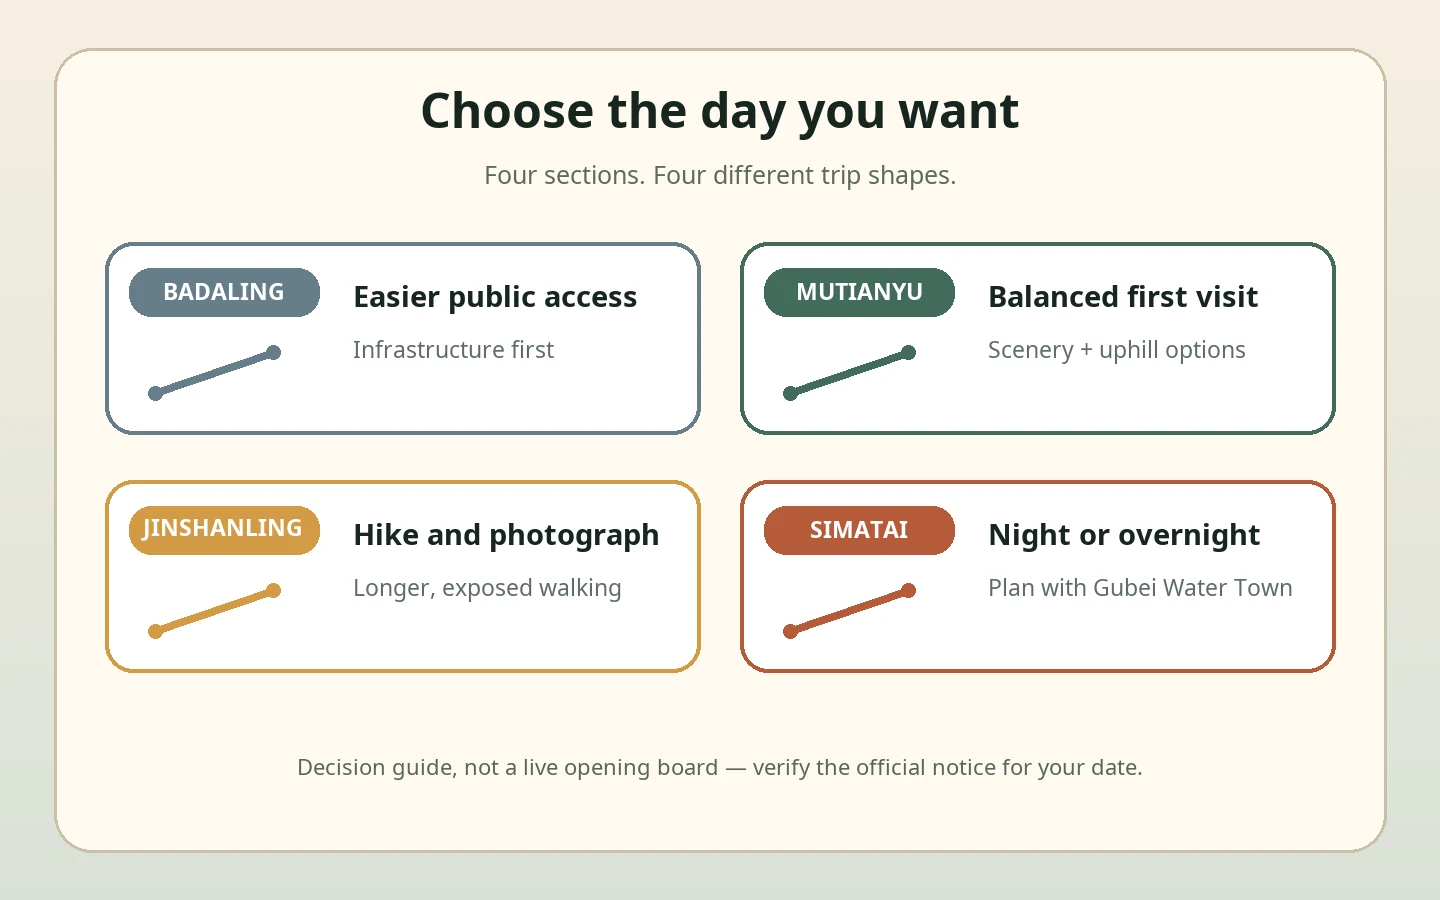
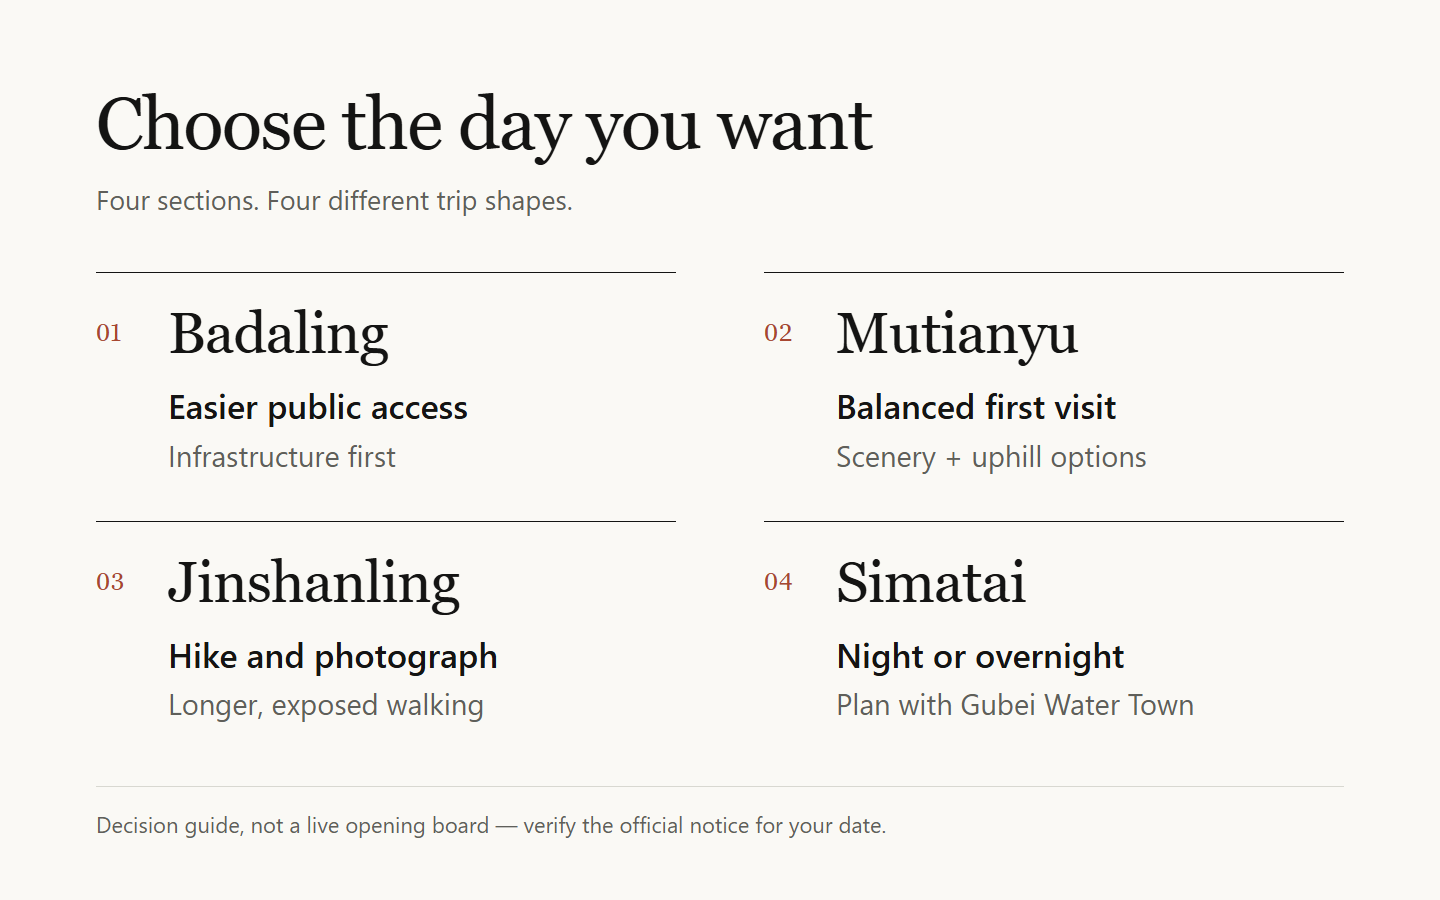
Re-set the Great Wall and Spring Festival charts; fix font coverage
The two sets of in-body charts (three languages each) are re-set in the
site's own typography: ivory ground, serif headings, hairline rules and one
rust accent, in place of the gradient ground, coloured rounded panels and
decorative strokes. Same file names and dimensions; alt text and captions
are unchanged.

- wording is carried over unchanged, except that the Korean Great Wall
  chart now names Badaling as 팔달령, as the Korean article does throughout
- the provenance document and both image plans record the change and the
  new SHA-256 values
- four alt texts from the previous commit used characters the subset fonts
  do not carry (帆, 捏, 盏, 씌), which failed check:font-coverage in CI; they
  are reworded with characters the fonts have

diff --git a/docs/homeground-photo-provenance.md b/docs/homeground-photo-provenance.md
@@ -2061,3 +2061,33 @@ only and no longer correspond to a published picture.
[1 lines of base64/hex data omitted]
 
 <!-- hand-drawn-20261011:end -->
+
+<!-- charts-reset-20261011:start -->
+
+## Decision charts re-set in the site's typography (October 11, 2026)
+
+The project owner asked for the two sets of in-body charts below to be made better looking. Each was
+re-set as a typeset chart in the manner of the site's own pages: ivory ground, serif headings, hairline
+rules and one rust accent. The gradient ground, the coloured rounded panels and the decorative strokes
+of the August 22 versions are gone. Each chart is text laid out locally as HTML and rasterised with
+headless Chrome at 1440 × 900; no image model, photograph, logo, map tile or identifiable person is
+involved. The text is set in Georgia (English), Noto Serif SC (Chinese) and MaruBuri with Pretendard
+(Korean); no font file is shipped inside an asset.
+
+The wording is carried over unchanged from the charts published on August 22, 2026, with one exception
+made at the owner's request: the Korean Great Wall chart now names Badaling as 팔달령, as the Korean
+article does throughout, instead of 바다링. File names, pixel dimensions, alternative text and captions
+are unchanged. The evidence boundaries recorded for these assets under “Evergreen decision graphics
+(August 22, 2026)” still apply. The SHA-256 values below supersede the values recorded there and in
+the two guides' `image-plan.md`.
+
+| File | SHA-256 | Chart |
+|---|---|---|
[6 lines of base64/hex data omitted]
+
+<!-- charts-reset-20261011:end -->

diff --git a/content/guides/great-wall-section-selector-from-beijing/image-plan.md b/content/guides/great-wall-section-selector-from-beijing/image-plan.md
@@ -37,3 +37,5 @@ All assets are original Homeground editorial graphics created locally on 2026-08
 - Do not use the graphic to imply that night tours, cable cars or any gate operate every day.
 
 - 2026-10-11: the published picture was redrawn by hand as an original Homeground vector drawing (flat panel, cut-paper shape, brush line) and now shows: the Great Wall climbing a ridge past three watchtowers, with a map pin above the middle tower. Same file name and dimensions. Current SHA-256 and the full record: `docs/homeground-photo-provenance.md`, “Hand-drawn replacements of generated guide illustrations (October 11, 2026)”. Earlier descriptions and hashes of this picture in this plan are history.
+
+- 2026-10-11 (charts): the three in-body charts were re-set in the site's own typography (ivory ground, serif headings, hairline rules, one rust accent; no gradient, coloured panels or decorative strokes). They now show four numbered entries on a ruled two-by-two grid instead of four cards. Wording is unchanged, except that the Korean chart names Badaling as 팔달령 to match the Korean article. Same file names and dimensions. Each is HTML text rasterised locally; no image model was used. Current SHA-256 values and the full record: `docs/homeground-photo-provenance.md`, “Decision charts re-set in the site's typography (October 11, 2026)”. Earlier descriptions of the charts' look in this plan are history.

diff --git a/content/guides/lunar-new-year-customs-for-visitors/image-plan.md b/content/guides/lunar-new-year-customs-for-visitors/image-plan.md
@@ -44,3 +44,5 @@
 - Do not use generative crowd extension, face enhancement or synthetic station detail.
 - Keep the pressure-map caption stating that annual official dates belong to the State Council, transport authorities and named venues.
 - Do not add dates to the pressure-map artwork. Annual dates remain editable text on the public-holiday owner.
+
+- 2026-10-11 (charts): the three in-body charts were re-set in the site's own typography (ivory ground, serif headings, hairline rules, one rust accent; no gradient, coloured panels or decorative strokes). They now show the four phases as four columns under one rule. Wording is unchanged and no dates were added. Same file names and dimensions. Each is HTML text rasterised locally; no image model was used. Current SHA-256 values and the full record: `docs/homeground-photo-provenance.md`, “Decision charts re-set in the site's typography (October 11, 2026)”. Earlier descriptions of the charts' look in this plan are history.
